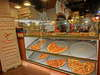
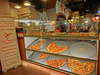
根据pagespeed 压缩了首页图片

diff --git a/index.html b/index.html
@@ -23,19 +23,17 @@
       <div class="content">
         <ul>
           <li>
-            <img src="https://lh4.ggpht.com/kJEnfqhPvtm4m3EneSZ4fWYGS8lW4YNhEjk6zPkyrQaBUHc-2Y_ElDic99NHI0h-UBLXVbRCjFybFvrWxdk=s100">
-            <a href="project-2048.html">Build Your Own 2048!</a>
+            <img src="img/2048-100_smalle.jpg">Build Your Own 2048!</a>
             <p>I made my own version of 2048. How cool is that!?</p>
           </li>
 
           <li>
-            <img src="https://lh6.ggpht.com/f_0W8h__3G99CWTjnMjD8BUKm7yp2-wJyApLtTwFoFtlal2ULf_JgHIsOQq2NiYfKOdMlXlMHDKNo5XVZLs=s100">
-            <a href="project-webperf.html">Website Performance Optimization</a>
+            <img src="img/website-100_smalle.jpg">Website Performance Optimization</a>
             <p>Hey... this class looks familiar.</p>
           </li>
 
           <li>
-            <img src="https://lh5.ggpht.com/IKdCmTWn8a2nMhlwMYzryvzRN5CUZAOBr4tDrEAbszV7TIFe9pRAInA4kkYcgTXwrifJsBEsq1agTueuu-g=s100">
+            <img src="img/mobile-100_smalle.jpg">
             <a href="project-mobile.html">Mobile Web Development</a>
             <p>Making mobile apps isn't so hard after all.</p>
           </li>
